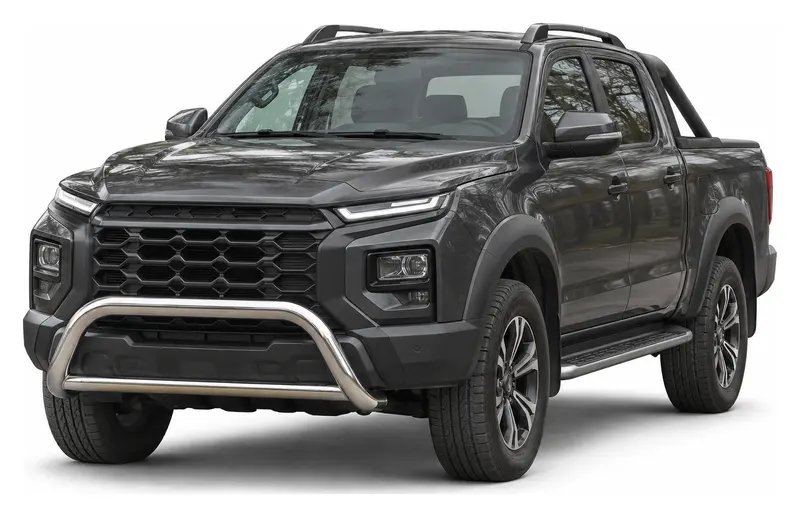
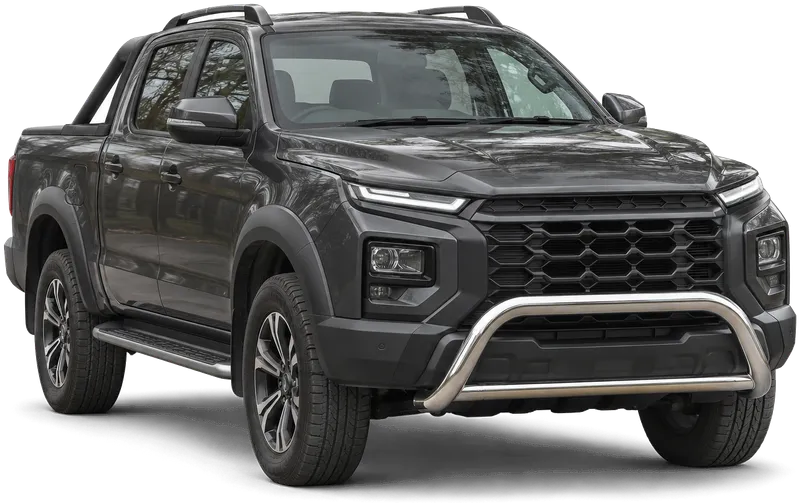
Hero follows the mock: car front over the dark panel, larger heading and picker
The studio shots are cut out of their white background (JAC mirrored so both cars face the panel), the car is anchored to the stage's right edge so its front sits over the side panel, and the logo, model name and order button centre on the car. The facts sit in a row next to the button on wide screens and in a column below 1440px. The side panel gets a left inset that clears the hood, a larger heading and picker, and tighter spacing on short screens. The workshop numbers keep the unit on the number's line and their captions line up. The hero slider arrows now fill on hover instead of hiding their icon.

diff --git a/apps/web/app/styles/pages/home.css b/apps/web/app/styles/pages/home.css
@@ -12,7 +12,7 @@
 .btn--white.home-cta:hover .home-cta__a { background: #3a3a3a; }
 
 .home-ic { --c: var(--c-m); width: 60px; height: 60px; flex-shrink: 0; display: grid; place-items: center; background: var(--t-1); color: #111; transition: transform .2s ease; }
-.home-sq.ar { width: 40px; height: 40px; border: 0; color: var(--t-2); background-color: transparent; cursor: pointer; }
+.home-sq.ar { --fill: transparent; width: 40px; height: 40px; border: 0; color: var(--t-2); cursor: pointer; }
 .home-sq.ar:hover, .home-sq.ar:focus-visible { --fill: var(--t-1); --lc: var(--t-1); color: #111; }
 
 .home-hero {
@@ -127,6 +127,7 @@
 .home-hero__facts b { font-size: 17px; color: var(--ink); }
 .home-hero__cta { position: absolute; left: 50%; bottom: 5.5cqh; z-index: 3; translate: -50% 0; }
 .home-hero__cta .btn { box-shadow: 0 14px 30px rgb(0 0 0 / .18); }
+.home-hero__bot { display: contents; }
 
 .home-hero__side { position: relative; z-index: 2; display: flex; flex-direction: column; min-height: 0; padding: calc(var(--hd-h) + 5.5svh) clamp(28px, 2.5vw, 48px) clamp(24px, 3.7svh, 40px); padding-right: var(--gut); }
 .home-hero__h1 { display: flex; gap: 18px; }
@@ -147,6 +148,57 @@
 .home-hero__lnk { margin-top: clamp(12px, 2svh, 24px); align-self: flex-start; color: var(--t-2); }
 .home-hero__nav { margin-top: auto; padding-top: 20px; border-top: 1px solid var(--ln-1); display: flex; align-items: center; gap: 10px; }
 .home-hero__nav > span:first-child { font-size: 14px; color: var(--g-3); margin-right: 8px; }
+
+@media (min-width: 1100px) {
+  .home-hero { --side: clamp(440px, 34vw, 660px); --lap: clamp(40px, 3.8vw, 84px); --tabw: clamp(56px, 4.4vw, 84px); }
+  .home-hero__stage {
+    --ch: min(53cqh, calc(84cqh - var(--hd-h) - 175px), calc(78cqw / 1.57));
+    --cw: calc(var(--ch) * 1.57);
+    --cb: 15cqh;
+    --cx: calc(100cqw + var(--lap) - var(--cw) / 2);
+    --half: calc(100cqw - var(--cx) - 24px);
+    z-index: 3;
+    overflow: visible;
+  }
+  .home-hero__mark { left: var(--cx); }
+  .home-hero__name { left: calc(var(--cx) - var(--half)); right: auto; width: calc(var(--half) * 2); }
+  .home-hero__model { font-size: min(var(--ns), 6.4cqh, calc(var(--half) * 2 / var(--nl, 8) / .92)); }
+  .home-hero__car { left: auto; right: calc(var(--lap) * -1); top: auto; bottom: var(--cb); width: var(--cw); }
+  .home-sil--photo img { width: auto; height: var(--ch); max-width: none; margin-left: auto; aspect-ratio: auto; object-fit: initial; filter: drop-shadow(0 18px 22px rgb(0 0 0 / .16)); }
+  .home-hero__floor { left: var(--cx); top: auto; bottom: calc(var(--cb) - 2.5cqh); width: calc(var(--cw) * 1.04); }
+  .home-hero__bot { --bl: calc(var(--tabw) + clamp(20px, 2vw, 40px)); position: absolute; left: var(--bl); bottom: 5.5cqh; z-index: 3; width: calc((var(--cx) - var(--bl)) * 2); display: grid; grid-template-columns: 1fr auto 1fr; align-items: end; column-gap: clamp(20px, 2vw, 40px); pointer-events: none; }
+  .home-hero__bot > * { pointer-events: auto; }
+  .home-hero__facts { position: static; flex-direction: row; gap: 0; border: 0; padding: 0; justify-self: start; }
+  .home-hero__facts li { padding: 0 clamp(10px, 1vw, 20px); border-left: 1px solid var(--p-3); white-space: nowrap; font-size: clamp(13px, .1vw + 12px, 14px); }
+  .home-hero__facts li:first-child { border-left: 2px solid var(--ink); padding-left: 14px; }
+  .home-hero__facts b { font-size: clamp(15px, .45vw + 9px, 19px); }
+  .home-hero__cta { position: static; translate: none; }
+  .home-hero__cta .home-cta.btn { min-height: clamp(54px, 3.4vw, 68px); padding-left: clamp(22px, 2vw, 40px); font-size: clamp(14px, 12px + .2vw, 16px); }
+  .home-hero__cta .home-cta__t { padding-right: clamp(18px, 1.6vw, 30px); }
+  .home-hero__cta .home-cta__a { width: clamp(54px, 3.4vw, 68px); }
+  .home-hero__side > * { flex-shrink: 0; }
+
+  .home-hero__side { padding-left: calc(var(--lap) + clamp(20px, 1.8vw, 44px)); padding-top: calc(var(--hd-h) + 4.5svh); }
+  .home-hero__h1 { gap: 20px; }
+  .home-hero__h1 h1 { font-size: clamp(30px, 1.8vw + 8px, 54px); line-height: 1.02; }
+  .home-hero__lead { margin-top: clamp(12px, 1.8svh, 22px); font-size: clamp(15px, .3vw + 11px, 17px); max-width: 460px; }
+  .home-pick { margin-top: clamp(16px, 2.8svh, 36px); padding: clamp(20px, 2.4svh, 28px) clamp(20px, 1.6vw, 30px); gap: 14px; }
+  .home-pick__t { flex-wrap: wrap; row-gap: 2px; }
+  .home-pick__t b { font-size: clamp(16px, .3vw + 12px, 19px); }
+  .home-pick__l { font-size: 13px; }
+  .home-pick .in { height: clamp(52px, 6svh, 62px); font-size: 16px; }
+  .home-hero__help { min-height: 0; }
+}
+@media (min-width: 1100px) and (max-width: 1439px) {
+  .home-hero__facts { flex-direction: column; gap: 8px; border-left: 2px solid var(--ink); padding-left: 14px; }
+  .home-hero__facts li, .home-hero__facts li:first-child { padding: 0; border: 0; }
+}
+@media (min-width: 1100px) and (max-height: 820px) {
+  .home-hero__side { padding-top: calc(var(--hd-h) + 3svh); padding-bottom: 20px; }
+  .home-hero__lead { line-height: 1.5; }
+  .home-hero__help { margin-top: 10px; }
+  .home-hero__nav { padding-top: 14px; }
+}
 
 .home-road { height: min(100svh, 1080px); min-height: 640px; overflow: hidden; background: var(--k-3); }
 .home-road .home-road__img { position: absolute; inset: 0; aspect-ratio: auto; height: 100%; }
@@ -272,9 +324,10 @@
 .home-shop__l { padding: 72px var(--gut) 56px; }
 .home-shop__fit { width: max-content; max-width: 100%; display: flex; flex-direction: column; gap: 36px; }
 .home-shop__nums { list-style: none; display: grid; grid-template-columns: repeat(3, auto); justify-content: start; }
-.home-shop__nums li { display: flex; flex-direction: column; gap: 6px; padding: 0 clamp(20px, 2.9vw, 56px); border-left: 1px solid var(--ln-2); font-size: 15px; line-height: 1.35; color: var(--g-4); max-width: 230px; }
+.home-shop__nums li { display: flex; flex-direction: column; gap: 6px; padding: 0 clamp(20px, 2.9vw, 56px); border-left: 1px solid var(--ln-2); font-size: 15px; line-height: 1.35; color: var(--g-4); }
+.home-shop__nums li > span { max-width: 12em; }
 .home-shop__nums li:first-child { padding-left: 0; border-left: 0; }
-.home-shop__nums b { font-size: clamp(44px, 4vw, 76px); line-height: 1; color: var(--t-1); }
+.home-shop__nums b { font-size: clamp(44px, 4vw, 76px); line-height: 1; color: var(--t-1); white-space: nowrap; }
 .home-shop__nums small { font-size: .45em; }
 .home-shop__pics { display: grid; grid-template-columns: minmax(0, 1fr) 170px; gap: 20px; height: 170px; }
 .home-shop .home-shop__wide { height: 170px; }

diff --git a/apps/web/app/components/home/Hero.tsx b/apps/web/app/components/home/Hero.tsx
@@ -68,7 +68,7 @@ export function Hero({ kits, onQuiz }: { kits: Kit[]; onQuiz: () => void }) {
     >
       <div className="home-hero__stage white">
         <Logo mark className="home-hero__mark" />
-        <div className="home-hero__name" key={`n-${slide.key}-${idx}`} data-size={size}>
+        <div className="home-hero__name" key={`n-${slide.key}-${idx}`} data-size={size} style={{ "--nl": Math.max(nameLen, 6) } as React.CSSProperties}>
           <span className="home-hero__model D">{slide.name}</span>
           <span className="home-hero__sub">{slide.sub}</span>
         </div>
@@ -76,7 +76,7 @@ export function Hero({ kits, onQuiz }: { kits: Kit[]; onQuiz: () => void }) {
         <div className="home-hero__car" key={`c-${slide.key}-${idx}`}>
           {slide.kit && studio ? (
             <figure className="home-sil home-sil--photo">
-              <img src={studio} srcSet={`${studio.replace(/\.webp$/, "-800.webp")} 800w, ${studio} 1600w`} sizes="(max-width: 767px) 100vw, 76vw" alt={`${slide.name} со стальной защитой бампера`} fetchPriority={idx === 0 ? "high" : undefined} decoding="async" />
+              <img src={studio} srcSet={`${studio.replace(/\.webp$/, "-800.webp")} 800w, ${studio} 1600w`} sizes="(max-width: 1099px) 90vw, 50vw" alt={`${slide.name} со стальной защитой бампера`} fetchPriority={idx === 0 ? "high" : undefined} decoding="async" />
             </figure>
           ) : slide.kit ? (
             <figure className="home-sil">
@@ -96,17 +96,19 @@ export function Hero({ kits, onQuiz }: { kits: Kit[]; onQuiz: () => void }) {
         </button>
         <AllModels open={all} kits={kits} onClose={() => setAll(false)} />
 
-        <ul className="home-hero__facts" aria-label="ARMORIX в цифрах">
-          <li><b className="D">AISI 304</b>нержавеющая сталь</li>
-          <li><b className="D">0</b>отверстий в кузове</li>
-          <li><b className="D"><span data-count="2.5">2,5</span> ч</b>установка у нас</li>
-        </ul>
-        <span className="lift lift--ink home-hero__cta">
-          <a href="#quiz" className="btn btn--dark home-cta" onClick={(e) => { e.preventDefault(); onQuiz(); }}>
-            <span className="home-cta__t">{ctaLabel}</span>
-            <span className="home-cta__a" aria-hidden="true"><Icon name="arrow" /></span>
-          </a>
-        </span>
+        <div className="home-hero__bot">
+          <ul className="home-hero__facts" aria-label="ARMORIX в цифрах">
+            <li><b className="D">AISI 304</b>нержавеющая сталь</li>
+            <li><b className="D">0</b>отверстий в кузове</li>
+            <li><b className="D"><span data-count="2.5">2,5</span> ч</b>установка у нас</li>
+          </ul>
+          <span className="lift lift--ink home-hero__cta">
+            <a href="#quiz" className="btn btn--dark home-cta" onClick={(e) => { e.preventDefault(); onQuiz(); }}>
+              <span className="home-cta__t">{ctaLabel}</span>
+              <span className="home-cta__a" aria-hidden="true"><Icon name="arrow" /></span>
+            </a>
+          </span>
+        </div>
       </div>
 
       <aside className="home-hero__side dark">

diff --git a/apps/web/app/components/home/Workshop.tsx b/apps/web/app/components/home/Workshop.tsx
@@ -9,9 +9,9 @@ export function Workshop({ models, items }: { models: number; items: number }) {
       <div className="home-shop__l">
         <div className="home-shop__fit">
           <ul className="home-shop__nums" data-stagger="">
-            <li data-in=""><b className="D"><span data-count={String(models)}>{models}</span></b>{plural(models, ["модель", "модели", "моделей"])} с готовым комплектом</li>
-            <li data-in=""><b className="D"><span data-count={String(items)}>{items}</span></b>{plural(items, ["позиция", "позиции", "позиций"])} в каталоге</li>
-            <li data-in=""><b className="D"><span data-count="2.5">2,5</span><small> ч</small></b>установка у нас</li>
+            <li data-in=""><b className="D"><span data-count={String(models)}>{models}</span></b><span>{plural(models, ["модель", "модели", "моделей"])} с готовым комплектом</span></li>
+            <li data-in=""><b className="D"><span data-count={String(items)}>{items}</span></b><span>{plural(items, ["позиция", "позиции", "позиций"])} в каталоге</span></li>
+            <li data-in=""><b className="D"><span data-count="2.5">2,5</span><small> ч</small></b><span>установка у нас</span></li>
           </ul>
           <div className="home-shop__pics" data-in="">
             <Illustration src={photo("shop-weld")} alt="Мастер сваривает трубу защиты" ratio="auto" sizes="(max-width: 767px) 100vw, 40vw" dark className="home-shop__wide" />
